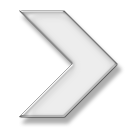
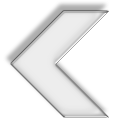
safari support, destination\source replacement

Changed region(s): [[0.0312, 0.0, 0.9688, 1.0]]

diff --git a/pages/templates/sidebar.html b/pages/templates/sidebar.html
@@ -156,17 +156,17 @@
                             popUpData = "\'";
                             datet = value.date.substring(0, value.date.indexOf('T')).split("-");
                             popUpData += datet[2] + "/" + datet[1] + "/" + datet[0] + ": " +
-                                value.paym + " <i class=\\'fa fa-long-arrow-right\\' aria-hidden=\\'true\\'></i> " + value.paymCrypto +
+                                value.paymCrypto + " <i class=\\'fa fa-long-arrow-left\\' aria-hidden=\\'true\\'></i> " + value.paym +
                                 " | куплено " + value.btc + " " + reservesSidebar.find(function (a) {
                                     return a.title === value.paymCrypto;
                                 }).currency +
                                 " за " + value.rub + " " + reservesSidebar.find(function (a) {
                                     return a.title === value.paym;
-                            }).currency +
+                                }).currency +
                                 " по курсу " + value.course + " (новый средний курс равен " + reservesSidebar.find(function (a) {
                                     return a.title === value.paymCrypto;
                                 }).average_course.toFixed(2) + ") " +
-                                ((value.commiss > 0) ? "(+ком." + value.commiss +")" : "") + ((value.bot_commiss > 0) ? ", сервисный сбор " + value.bot_commiss : "") +
+                                ((value.commiss > 0) ? "(+ком." + value.commiss + ")" : "") + ((value.bot_commiss > 0) ? ", сервисный сбор " + value.bot_commiss : "") +
                                 ", финрез по операции: " + value.cur_fin_res +
                                 "\'";
                             //block content
@@ -183,7 +183,7 @@
                             popUpData = "\'";
                             datet = value.date.substring(0, value.date.indexOf('T')).split("-");
                             popUpData += datet[2] + "/" + datet[1] + "/" + datet[0] + ": " +
-                                value.paymCrypto + " <i class=\\'fa fa-long-arrow-right\\' aria-hidden=\\'true\\'></i> " + value.paym +
+                                value.paym + " <i class=\\'fa fa-long-arrow-left\\' aria-hidden=\\'true\\'></i>></i> " + value.paymCrypto +
                                 " | продано " + value.btc + " " + reservesSidebar.find(function (a) {
                                     return a.title === value.paymCrypto;
                                 }).currency +
@@ -191,7 +191,7 @@
                                     return a.title === value.paym;
                                 }).currency +
                                 " по курсу " + value.course +
-                                ((value.commiss > 0) ? " (+ком." + value.commiss +")" : "") + ((value.bot_commiss > 0) ? ", сервисный сбор " + value.bot_commiss : "") +
+                                ((value.commiss > 0) ? " (+ком." + value.commiss + ")" : "") + ((value.bot_commiss > 0) ? ", сервисный сбор " + value.bot_commiss : "") +
                                 ", финрез по операции: " + value.cur_fin_res +
                                 "\'";
                             operation_data += '<li onmouseover="nhpup.popup(' + popUpData + ',' + "{'width' : 'auto'}" + ')"><b>Продано:</b> <span class="red"><b>' + value.btc.toLocaleString('ru-RU', {
@@ -216,10 +216,13 @@
                             }
                             popUpData = "\'";
                             datet = value.date.substring(0, value.date.indexOf('T')).split("-");
-                            popUpData += datet[2] + "/" + datet[1] + "/" + datet[0] + ": " + value.source + " <i class=\\'fa fa-long-arrow-right\\' aria-hidden=\\'true\\'></i> " + value.destination + " | " + value.transaction + " " + value.currency + ((value.commiss > 0) ? "(+ком." + value.commiss +")" : "") + ((value.percent > 0) ? "под процент " + value.percent : "") + "\'";
+                            popUpData += datet[2] + "/" + datet[1] + "/" + datet[0] + ": "
+                                + value.destination + " <i class=\\'fa fa-long-arrow-left\\' aria-hidden=\\'true\\'></i> " + value.source
+                                + " | " + value.transaction + " " + value.currency + ((value.commiss > 0) ? "(+ком." + value.commiss + ")" : "")
+                                + ((value.percent > 0) ? " под процент " + value.percent : "") + "\'";
                             operation_data += '<li onmouseover="nhpup.popup(' + popUpData + ',' + "{'width' : 'auto'}" + ')"><b>Перевод:</b> ' + ((sourceRes === username) ? 'отправлено <span class="red"><b>' : 'получено <span class="green"><b>') + value.transaction.toLocaleString('ru-RU', {
                                 maximumFractionDigits: 8
-                            }) + '</span> ' + value.currency +  '</b> на <b>' + value.destination + '</b></li>';
+                            }) + '</span> ' + value.currency + '</b> на <b>' + value.destination + '</b></li>';
                             break;
                     }
                 });
@@ -273,7 +276,7 @@
                 '</ul>' +
                 '</div>');
             var operational_data = "", numberLimiter = 2, currentCurrency = "",
-            ownedRemainders = [], switchedRemainders = [], foreignRemainders = [];
+                ownedRemainders = [], switchedRemainders = [], foreignRemainders = [];
             reservesRemainders.sort(function (a, b) {
                 var compare = a.currency.localeCompare(b.currency);
                 if (compare === 0) {
@@ -335,7 +338,8 @@
     function buildCreditTab() {
         if (creditsSidebar.length !== 0) {
             $("#credits").html('');
-            var operational_data = "", creditList = {}, currentUser = "", creditSum = 0, currentCurrency = "", totalCredits = {};
+            var operational_data = "", creditList = {}, currentUser = "", creditSum = 0, currentCurrency = "",
+                totalCredits = {};
             creditsSidebar.sort(function (a1, a2) {
                 let compare = a1.debet.localeCompare(a2.debet);
                 if (compare === 0) {
@@ -367,13 +371,13 @@
                 operational_data += '<span class="align_right col-md-7">' + sumVal.toLocaleString('ru-RU', {maximumFractionDigits: 8}) + '</span>';
                 operational_data += '</li>';
             });
-            operational_data += 'Пассивные остатки:';
-            $.each(passiveRemainders, function (currencyKey, sumVal) {
-                operational_data += '<li>';
-                operational_data += '<span class="align_left col-md-5">' + currencyKey + '</span>';
-                operational_data += '<span class="align_right col-md-7">' + sumVal.toLocaleString('ru-RU', {maximumFractionDigits: 8}) + '</span>';
-                operational_data += '</li>';
-            });
+            /* TODO           operational_data += 'Пассивные остатки:';
+                        $.each(passiveRemainders, function (currencyKey, sumVal) {
+                            operational_data += '<li>';
+                            operational_data += '<span class="align_left col-md-5">' + currencyKey + '</span>';
+                            operational_data += '<span class="align_right col-md-7">' + sumVal.toLocaleString('ru-RU', {maximumFractionDigits: 8}) + '</span>';
+                            operational_data += '</li>';
+                        });*/
             operational_data += '</ul></div>';
             //---PersonalCredits
             $.each(creditList, function (userKey, currencyVal) {
@@ -399,7 +403,8 @@
     function buildDebitTab() {
         if (debetsSidebar.length !== 0) {
             $("#debits").html('');
-            var operational_data = "", debitList = {}, currentUser = "", debitSum = 0, currentCurrency = "", totalDebits = {};
+            var operational_data = "", debitList = {}, currentUser = "", debitSum = 0, currentCurrency = "",
+                totalDebits = {};
             debetsSidebar.sort(function (a1, a2) {
                 let compare = a1.credit.localeCompare(a2.credit);
                 if (compare === 0) {
@@ -431,13 +436,13 @@
                 operational_data += '<span class="align_right col-md-7">' + sumVal.toLocaleString('ru-RU', {maximumFractionDigits: 8}) + '</span>';
                 operational_data += '</li>';
             });
-            operational_data += 'Пассивные остатки:';
-            $.each(passiveRemainders, function (currencyKey, sumVal) {
-                operational_data += '<li>';
-                operational_data += '<span class="align_left col-md-5">' + currencyKey + '</span>';
-                operational_data += '<span class="align_right col-md-7">' + sumVal.toLocaleString('ru-RU', {maximumFractionDigits: 8}) + '</span>';
-                operational_data += '</li>';
-            });
+            /* TODO           operational_data += 'Пассивные остатки:';
+                        $.each(passiveRemainders, function (currencyKey, sumVal) {
+                            operational_data += '<li>';
+                            operational_data += '<span class="align_left col-md-5">' + currencyKey + '</span>';
+                            operational_data += '<span class="align_right col-md-7">' + sumVal.toLocaleString('ru-RU', {maximumFractionDigits: 8}) + '</span>';
+                            operational_data += '</li>';
+                        });*/
             operational_data += '</ul></div>';
             //---personalDebits
             $.each(debitList, function (userKey, currencyVal) {

diff --git a/js/pages/inputoutput_history.js b/js/pages/inputoutput_history.js
@@ -55,69 +55,58 @@ function fillTable(data, targetID) {
         $.each(data.data, function (key, value) {
             rowNumber++;
             var source = {};
-            getParticipantData(value.source, function (data) {
-                var xtraData = "";
-                source = data;
+            var destination = {};
+            getParticipantData(value.destination, function (data) {
                 operation_data += '<tr id="' + targetID.substring(1, targetID.length) + "_tr" + rowNumber + '\">';
+                //====hidden buttons=====
+                var xtraData = "";
+                if (targetID === '#unaccepted_table') {
+                    xtraData = '<div class="table_row_overlay col-md-6"><button class="accept col-md-6" onclick="acceptEntry(' + rowNumber + ", \'" + source.reserve + "\')\">" +
+                        '<i class="fa fa-chevron-down" aria-hidden="true">Подтвердить</i></button>';
+                    xtraData += '<button class="decline col-md-6" onclick="declineEntry(' + rowNumber + ")\"" + '>' +
+                        '<i class="fa fa-times" aria-hidden="true">Отклонить</i></button></div>';
+                    unacceptedID["" + rowNumber] = value._id;
+                }
+                if (targetID === '#report_table') {
+                    acceptedID["" + rowNumber] = value._id;
+                }
+                //====date column=====
+                var datet = value.date.substring(0, value.date.indexOf('T')).split("-");
+                operation_data += '<td>' + datet[2] + "/" + datet[1] + "/" + datet[0] + xtraData + '</td>';
+                //====destination column=====
+                destination = data;
                 operation_data += '<td><div class="transfer_participant">' +
-                    '<span class="transfer_data"><i class="fa fa-male" aria-hidden="true"></i>' + source.agent + '</span>';
-                if (source.reserve !== null) {
-                    operation_data += '<span class="transfer_data"><i class="fa fa-credit-card" aria-hidden="true"></i>' + source.reserve + '</span>';
+                    '<span class="transfer_data"><i class="fa fa-male" aria-hidden="true"></i>' + destination.agent + '</span>';
+                if (destination.reserve !== null) {
+                    operation_data += '<span class="transfer_data"><i class="fa fa-credit-card" aria-hidden="true"></i>' + destination.reserve + '</span>';
                 }
                 operation_data += '</div></td>';
-                var destination = {};
-                getParticipantData(value.destination, function (data) {
-                    destination = data;
-                    //======forming comission string and getting a currency========
-                    var commiss = value.commiss;
-                    var comStr = (commiss > 0) ? " (+" + commiss + ")" : "";
-                    var curStr = "",
-                        creditStr = (value.percent > 0) ? "<span class='red'> " + value.percent + "%</span>" : "";
-                    //====trying to get currency from source
-                    if (source.reserve !== null) {
-                        for (var j = 0; j < IOReserves.length; j++) {
-                            if (IOReserves[j].title === source.reserve) {
-                                curStr = IOReserves[j].currency;
-                                break;
-                            }
-                        }
-                    }
-                    //====if we have failed, then we are got to get currency from destination
-                    if (curStr === "" && destination.reserve !== null) {
-                        for (var n = 0; n < IOReserves.length; n++) {
-                            if (IOReserves[n].title === destination.reserve) {
-                                curStr = IOReserves[n].currency;
-                                break;
-                            }
-                        }
-                    }
-                    operation_data += '<td class="transfer_arrow">' +
-                        '<div class="description">' + value.description + '</div>' +
-                        '<img src="../img/arrow.png" width="50px">' + value.transaction + '<span class="red">' + comStr + "</span> " + curStr + creditStr
+
+                //======forming comission string and getting a currency========
+                var commiss = value.commiss;
+                var comStr = (commiss > 0) ? " (+" + commiss + ")" : "";
+                var curStr = value.currency,
+                    creditStr = (value.percent > 0) ? "<span class='red'> " + value.percent + "%</span>" : "";
+                //====operation details column=====
+                operation_data += '<td class="transfer_arrow">' +
+                    '<div class="description">' + value.description + '</div>' +
+                    '<img src="../img/arrow.png" width="30px">' + value.transaction.toLocaleString("ru-RU", {maximumFractionDigits: 2}) + '<span class="red">' + comStr + "</span> " + curStr + creditStr +
                     '</td>';
 
+                getParticipantData(value.source, function (data) {
+                    source = data;
+
+                    //====source column=====
                     operation_data += '<td><div class="transfer_participant">' +
-                        '<span class="transfer_data"><i class="fa fa-male" aria-hidden="true"></i>' + destination.agent + '</span>';
-                    if (destination.reserve !== null) {
-                        operation_data += '<span class="transfer_data"><i class="fa fa-credit-card" aria-hidden="true"></i>' + destination.reserve + '</span>';
+                        '<span class="transfer_data"><i class="fa fa-male" aria-hidden="true"></i>' + source.agent + '</span>';
+                    if (source.reserve !== null) {
+                        operation_data += '<span class="transfer_data"><i class="fa fa-credit-card" aria-hidden="true"></i>' + source.reserve + '</span>';
                     }
                     operation_data += '</div></td>';
-
-                    if (targetID === '#unaccepted_table') {
-                        xtraData = '<div class="table_row_overlay col-md-6"><button class="accept col-md-6" onclick="acceptEntry(' + rowNumber + ", \'" + source.reserve + "\')\">" +
-                            '<i class="fa fa-chevron-down" aria-hidden="true">Подтвердить</i></button>';
-                        xtraData += '<button class="decline col-md-6" onclick="declineEntry(' + rowNumber + ")\"" + '>' +
-                            '<i class="fa fa-times" aria-hidden="true">Отклонить</i></button></div>';
-                        unacceptedID["" + rowNumber] = value._id;
-                    }
-                    if (targetID === '#report_table') {
-                        acceptedID["" + rowNumber] = value._id;
-                    }
-                    var datet = value.date.substring(0, value.date.indexOf('T')).split("-");
-                    operation_data += '<td>' + datet[2] + "/" + datet[1] + "/" + datet[0] + xtraData + '</td>';
                     operation_data += '</tr>';
                 });
             });
+
         });
         $(targetID + " tr th").removeClass("hidden");
         $(targetID).append(operation_data);

diff --git a/js/pages/journal.js b/js/pages/journal.js
@@ -147,12 +147,12 @@ function drawJournal(page, direction) {
                     operation_data += '<td>' + parsedDay + '/' + parsedMonth + '/' + parsedYear + " " + parsedDate[1].substring(0, parsedDate[1].indexOf(".")) + '</td>';
                     //Operation
                     operation_data += '<td>' + operation + '</td>';
-                    //Source
-                    var source = (value.operation === "translate") ? value.source : value.paym;
-                    operation_data += '<td>' + source + '</td>';
                     //Destination
                     var destination = (value.operation === "translate") ? value.destination : value.paymCrypto;
                     operation_data += '<td>' + destination + '</td>';
+                    //Source
+                    var source = (value.operation === "translate") ? value.source : value.paym;
+                    operation_data += '<td>' + source + '</td>';
 
                     //Non-crypto checkout
                     var rub = 0,
@@ -200,12 +200,15 @@ function drawJournal(page, direction) {
                     operation_data += '<td class="' + btcClass + '">' + btc.toLocaleString('ru-RU', {
                         maximumFractionDigits: 8,
                     }) + ' ' + crypto_currency + '</td>';
+                    //Commission
                     operation_data += '<td>' + value.commiss.toLocaleString('ru-RU', {
                         maximumFractionDigits: 2
                     }) + ' ' + non_crypto_currency + '</td>';
+                    //Service commission (crypto)
                     operation_data += '<td>' + ((value.operation === "translate") ? 0 : value.bot_commiss.toLocaleString('ru-RU', {
                         maximumFractionDigits: 8,
                     })) + ' ' + crypto_currency + '</td>';
+                    //Finres
                     operation_data += '<td>' + ((value.operation === "translate") ? -value.commiss.toLocaleString('ru-RU', {
                         maximumFractionDigits: 2
                     }) : value.cur_fin_res.toLocaleString('ru-RU', {

diff --git a/css/main.css b/css/main.css
@@ -107,6 +107,9 @@ b, strong {
     font-size: 0.5em;
     color: darkgray;
 }
+textarea.align_left {
+    white-space: normal;
+}
 .wrapper {
     margin: auto;
     padding: 10px;
@@ -567,7 +570,7 @@ input.validate:valid:not(:placeholder-shown) {
     background-color: rgba(29, 29, 29, 0.11);
     width: 25%;
     transition-duration: 0.5s;
-    padding: 10px 0;
+    padding: 5px 0;
 }
 
 .transfer_participant {
@@ -604,7 +607,7 @@ input.validate:valid:not(:placeholder-shown) {
     vertical-align: middle;
 }
 
-.transfer_table tr td:last-child {
+.transfer_table tr td:first-child {
     width: 15%;
     text-align: center;
     font-size: 20px;

diff --git a/pages/inputoutput.html b/pages/inputoutput.html
@@ -48,7 +48,7 @@
         </div>
         <div class="input_block">
             <label for="transaction" class="col-md-5 align_left">Сумма</label>
-            <input class="col-md-5 align_right" type="number" name="transaction" id="transaction" min="0" step="0.00000001" placeholder="0" required>
+            <input class="col-md-5 align_right" type="number" name="transaction" id="transaction" step="0.00000001" placeholder="0" required>
             <span class="currency col-md-1 transparent">AAA</span>
         </div>
         <div class="input_block">

diff --git a/gulpfile.js b/gulpfile.js
@@ -2,6 +2,7 @@ var gulp = require('gulp'),
     browsersync = require('browser-sync'),
     gulp_jshint = require('gulp-jshint'),
     sass = require('gulp-sass'),
+    autoprefixer = require('gulp-autoprefixer'),
     jshint = require('jshint');
 
 var path = {
@@ -44,5 +45,6 @@ gulp.task('img:build', function () {
 
 gulp.task('css:build', function () {
     gulp.src(path.src.css)
+        .pipe(autoprefixer())
         .pipe(gulp.dest(path.build.css))
 });

diff --git a/pages/journal.html b/pages/journal.html
@@ -56,8 +56,8 @@
         <tr>
             <th>Дата</th>
             <th>Операция</th>
-            <th>Источник</th>
             <th>Назначение</th>
+            <th>Источник</th>
             <th>Р</th>
             <th>BTC</th>
             <th>Комиссия</th>
